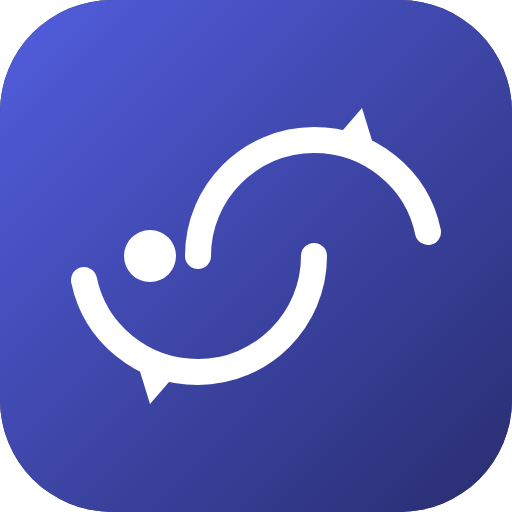
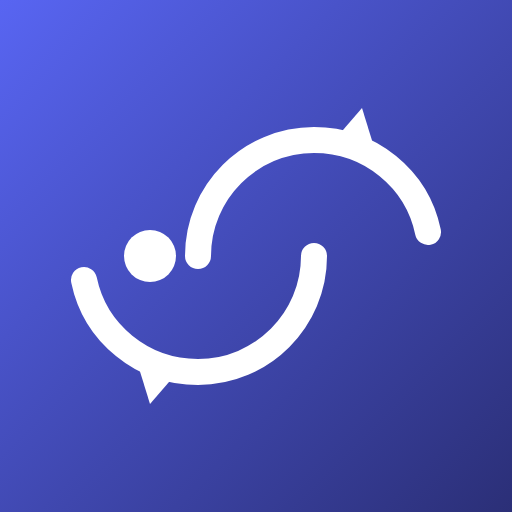
Corrige ligação ao bot sem Message Content Intent e ícone com bordas em branco
O login falhava por completo ("Used disallowed intents") sempre que o
bot não tinha a Message Content Intent ativada no portal, mesmo só
querendo usar backups/moderação/sorteios. Agora tenta ligar com essa
intent e, se for recusada, liga na mesma sem ela — só os transcripts
ficam sem o texto das mensagens, com aviso na interface a explicar
porquê.

O ícone da app tinha cantos brancos (fundo do canvas a aparecer por
fora do desenho arredondado). Refeito como um quadrado cheio, sem
recorte, para não depender de arredondamento/transparência do SO.

Claude-Session: https://claude.ai/code/session_01XjsWERRbu8S4Guv5yteo8g

diff --git a/electron/discord/client.ts b/electron/discord/client.ts
@@ -16,15 +16,31 @@ import { handleGameInteraction, registerCommandsForGuild } from './games'
  */
 class DiscordManager {
   private client: Client | null = null
+  private messageContentEnabled = false
 
   async connect(token: string): Promise<BotStatus> {
     if (this.client) {
       await this.disconnect()
     }
 
-    const client = new Client({
-      intents: [GatewayIntentBits.Guilds, GatewayIntentBits.GuildMessages, GatewayIntentBits.MessageContent],
-    })
+    // A Message Content Intent é privilegiada — só funciona se tiveres ativado o
+    // interruptor no Developer Portal. Se não tiveres, tentar pedi-la faz o login
+    // inteiro falhar ("Used disallowed intents"), não só os transcripts. Por
+    // isso tentamos primeiro com ela e, se for recusada, voltamos a tentar sem —
+    // o resto da app continua a funcionar, só os transcripts ficam sem conteúdo.
+    let client: Client
+    try {
+      client = await this.tryLogin(token, true)
+      this.messageContentEnabled = true
+    } catch (err) {
+      if (!isDisallowedIntentsError(err)) throw asFriendlyError(err)
+      try {
+        client = await this.tryLogin(token, false)
+        this.messageContentEnabled = false
+      } catch (err2) {
+        throw asFriendlyError(err2)
+      }
+    }
 
     client.on(Events.InteractionCreate, async (interaction) => {
       if (!interaction.isChatInputCommand()) return
@@ -37,17 +53,23 @@ class DiscordManager {
       await registerCommandsForGuild(guild, enabledGameIds(guild.id)).catch(() => undefined)
     })
 
-    try {
-      await client.login(token)
-    } catch (err) {
-      await client.destroy().catch(() => undefined)
-      const message = err instanceof Error ? err.message : String(err)
-      throw new Error(`Não foi possível ligar com este token: ${message}`)
-    }
-
     this.client = client
     await this.registerAllCommands()
     return this.getStatus()
+  }
+
+  private async tryLogin(token: string, withMessageContent: boolean): Promise<Client> {
+    const intents = withMessageContent
+      ? [GatewayIntentBits.Guilds, GatewayIntentBits.GuildMessages, GatewayIntentBits.MessageContent]
+      : [GatewayIntentBits.Guilds, GatewayIntentBits.GuildMessages]
+    const client = new Client({ intents })
+    try {
+      await client.login(token)
+      return client
+    } catch (err) {
+      await client.destroy().catch(() => undefined)
+      throw err
+    }
   }
 
   async disconnect(): Promise<void> {
@@ -67,13 +89,14 @@ class DiscordManager {
 
   async getStatus(): Promise<BotStatus> {
     if (!this.client || !this.client.isReady() || !this.client.user) {
-      return { connected: false, botTag: null, botAvatarUrl: null, guildCount: 0 }
+      return { connected: false, botTag: null, botAvatarUrl: null, guildCount: 0, messageContentEnabled: false }
     }
     return {
       connected: true,
       botTag: this.client.user.tag,
       botAvatarUrl: this.client.user.displayAvatarURL({ size: 128 }),
       guildCount: this.client.guilds.cache.size,
+      messageContentEnabled: this.messageContentEnabled,
     }
   }
 
@@ -107,6 +130,16 @@ class DiscordManager {
       })
     }
   }
+}
+
+function isDisallowedIntentsError(err: unknown): boolean {
+  const message = err instanceof Error ? err.message : String(err)
+  return /disallowed intents/i.test(message)
+}
+
+function asFriendlyError(err: unknown): Error {
+  const message = err instanceof Error ? err.message : String(err)
+  return new Error(`Não foi possível ligar com este token: ${message}`)
 }
 
 export const discordManager = new DiscordManager()

diff --git a/src/pages/Transcripts.tsx b/src/pages/Transcripts.tsx
@@ -1,6 +1,6 @@
 import { useEffect, useState } from 'react'
 import { Link } from 'react-router-dom'
-import { FileText, Plus, Trash2 } from 'lucide-react'
+import { AlertTriangle, FileText, Plus, Trash2 } from 'lucide-react'
 import { bridge } from '../lib/bridge'
 import { formatRelativeDate } from '../lib/format'
 import { Button, Card, ConfirmDialog, EmptyState, Modal, SectionHeading } from '../components/ui'
@@ -14,6 +14,7 @@ export default function Transcripts() {
   const [creating, setCreating] = useState(false)
   const [exporting, setExporting] = useState(false)
   const [toDelete, setToDelete] = useState<TranscriptSummary | null>(null)
+  const [messageContentEnabled, setMessageContentEnabled] = useState(true)
 
   const [guildId, setGuildId] = useState('')
   const [channelId, setChannelId] = useState('')
@@ -21,6 +22,7 @@ export default function Transcripts() {
 
   useEffect(() => {
     load()
+    bridge.getStatus().then((s) => setMessageContentEnabled(s.messageContentEnabled))
   }, [])
 
   useEffect(() => {
@@ -71,6 +73,17 @@ export default function Transcripts() {
           </Button>
         }
       />
+
+      {!messageContentEnabled && (
+        <div className="flex items-start gap-2.5 rounded-lg border border-warning/30 bg-warning/5 px-3.5 py-3 text-xs text-warning">
+          <AlertTriangle size={15} className="mt-0.5 shrink-0" />
+          <span>
+            A Message Content Intent não está ativada no bot, por isso os transcripts saem sem o texto das mensagens
+            (só autor, data e anexos). Ativa-a em Bot → Privileged Gateway Intents no Developer Portal e volta a
+            ligar o bot para teres o conteúdo completo.
+          </span>
+        </div>
+      )}
 
       {!loading && transcripts.length === 0 && (
         <EmptyState title="Sem transcripts" description="Exporta o histórico de um canal para arquivares ou consultares mais tarde." />

diff --git a/src/pages/Settings.tsx b/src/pages/Settings.tsx
@@ -16,7 +16,7 @@ export default function Settings({ status, onStatusChange }: { status: BotStatus
 
   async function disconnect() {
     await bridge.disconnectBot()
-    onStatusChange({ connected: false, botTag: null, botAvatarUrl: null, guildCount: 0 })
+    onStatusChange({ connected: false, botTag: null, botAvatarUrl: null, guildCount: 0, messageContentEnabled: false })
   }
 
   return (
@@ -29,7 +29,10 @@ export default function Settings({ status, onStatusChange }: { status: BotStatus
           <div className="flex items-center justify-between">
             <div>
               <p className="text-sm font-semibold text-text">{status.botTag}</p>
-              <p className="text-xs text-muted">{status.guildCount} servidores</p>
+              <p className="text-xs text-muted">
+                {status.guildCount} servidores
+                {!status.messageContentEnabled && ' · sem Message Content Intent (transcripts sem texto)'}
+              </p>
             </div>
             <Button variant="dark" onClick={disconnect}>
               <LogOut size={14} />

diff --git a/src/lib/demoData.ts b/src/lib/demoData.ts
@@ -207,13 +207,13 @@ const restoreListeners = new Set<(event: RestoreProgressEvent) => void>()
 export const demoBridge: LisDiscordBridge = {
   async connectBot() {
     await delay()
-    return { connected: true, botTag: 'LisDiscord Bot#0421', botAvatarUrl: null, guildCount: guilds.length }
+    return { connected: true, botTag: 'LisDiscord Bot#0421', botAvatarUrl: null, guildCount: guilds.length, messageContentEnabled: true }
   },
   async disconnectBot() {
     await delay()
   },
   async getStatus() {
-    return { connected: true, botTag: 'LisDiscord Bot#0421', botAvatarUrl: null, guildCount: guilds.length }
+    return { connected: true, botTag: 'LisDiscord Bot#0421', botAvatarUrl: null, guildCount: guilds.length, messageContentEnabled: true }
   },
   async listGuilds() {
     await delay()

diff --git a/shared/types.ts b/shared/types.ts
@@ -104,6 +104,7 @@ export interface BotStatus {
   botTag: string | null
   botAvatarUrl: string | null
   guildCount: number
+  messageContentEnabled: boolean
 }
 
 export interface RestoreOptions {
